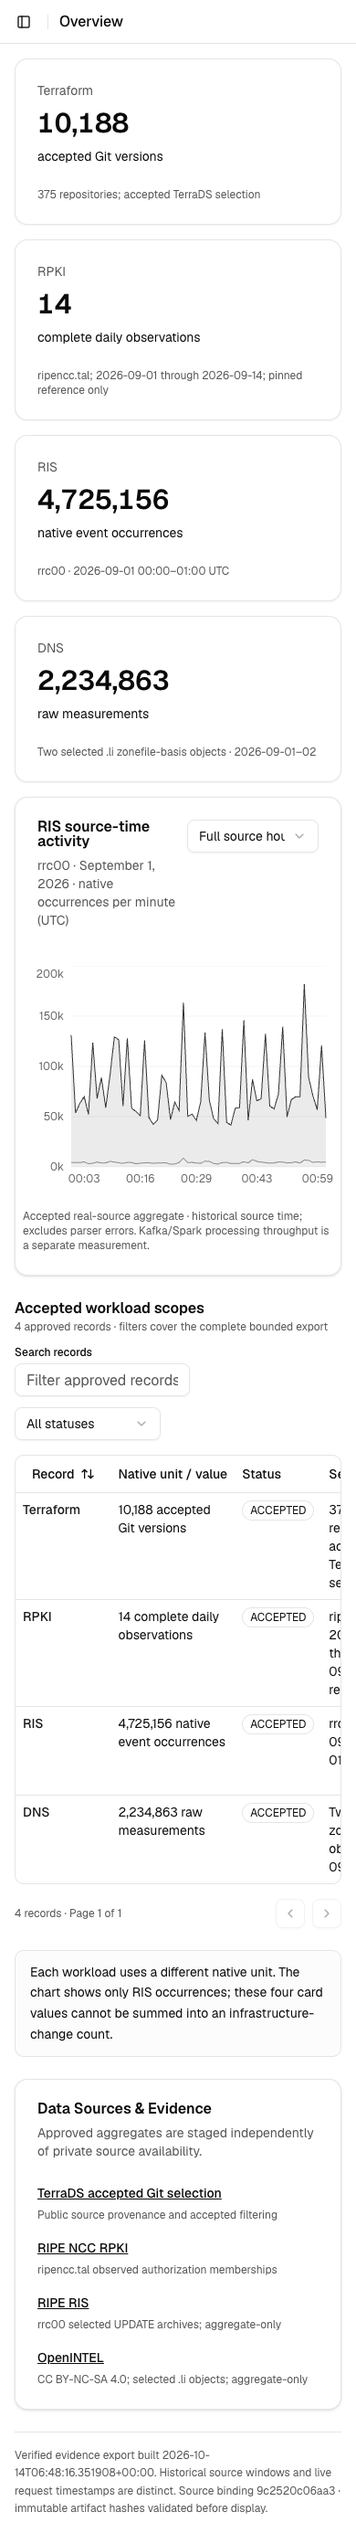
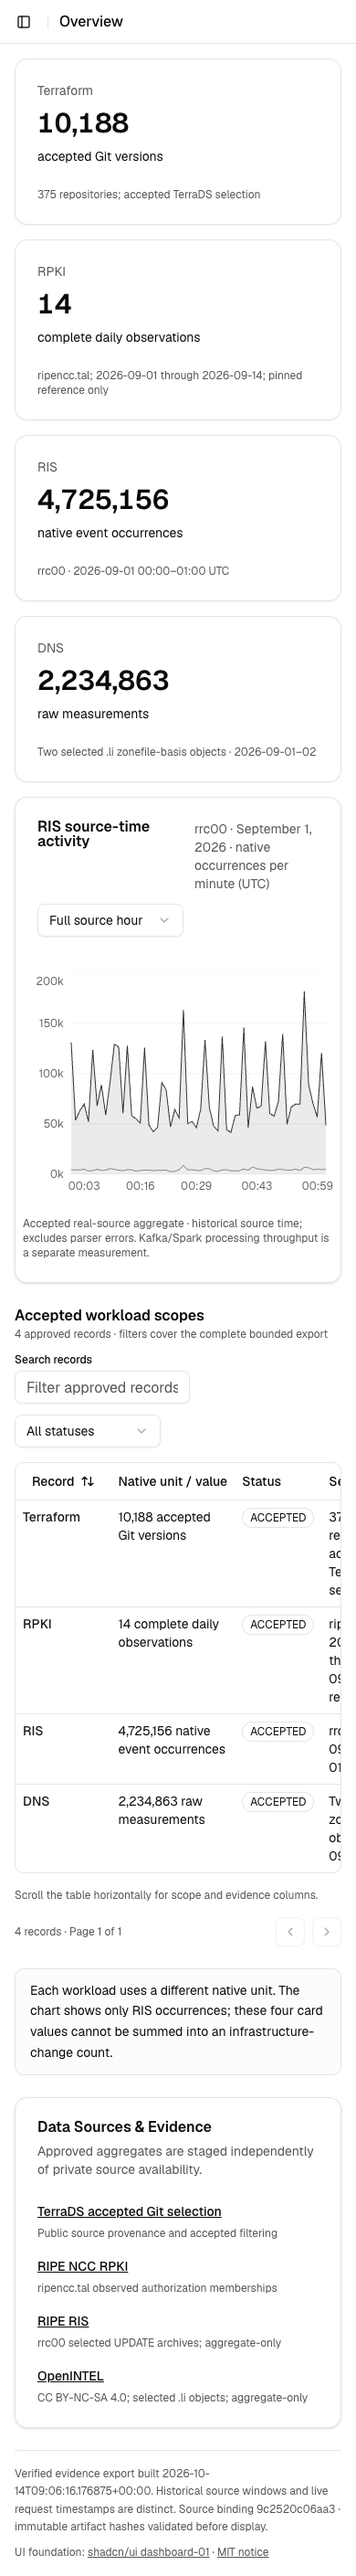
Refine mobile reference layout and verified Kubernetes demo interactions

diff --git a/frontend/components/dashboard/dashboard.tsx b/frontend/components/dashboard/dashboard.tsx
@@ -595,7 +595,7 @@ function Content({ screen, catalog }: { screen: Screen; catalog: Catalog }) {
                   String(item.mode),
                   String(item.mode),
                   bytes(Number(item.bytes)),
-                  "14 RPKI days · Snappy tuple projection",
+                  `14 RPKI days · all-in component median ${count(Number(item.all_in_bytes))} bytes`,
                   "EXACT RECONSTRUCTION",
                   String(item.artifact),
                   {
@@ -618,7 +618,7 @@ function Content({ screen, catalog }: { screen: Screen; catalog: Catalog }) {
                 row(
                   `${item.mode}-${item.query}`,
                   `${item.mode} · ${String(item.query).replaceAll("_", " ")}`,
-                  seconds(Number(item.median)),
+                  `${seconds(Number(item.median))} median · ${seconds(Number(item.minimum))}–${seconds(Number(item.maximum))} range`,
                   "Three build medians; warm cycles; OS cache uncontrolled",
                   String(item.status),
                   String(item.artifact),
@@ -782,7 +782,7 @@ function Content({ screen, catalog }: { screen: Screen; catalog: Catalog }) {
             <p>{ops.limits}</p>
             <p>{ops.measurement}</p>
             <p>
-              Dedicated VM: {ops.vm.cpus} CPUs / {ops.vm.memory_gib} GiB RAM /{" "}
+              Recorded VM: {ops.vm.cpus} CPUs / {ops.vm.memory_gib} GiB RAM /{" "}
               {ops.vm.disk_gib} GiB disk.
             </p>
             <p>

diff --git a/frontend/tests/dashboard.spec.ts b/frontend/tests/dashboard.spec.ts
@@ -269,3 +269,14 @@ test("navigation and console remain clean", async ({ page }) => {
   }
   expect(errors).toEqual([]);
 });
+
+test("health becomes stale at the declared freshness boundary", async ({
+  page,
+}) => {
+  await page.clock.install();
+  await page.goto("/operations/");
+  await page.getByRole("button", { name: "Check API now" }).click();
+  await expect(page.getByRole("status")).toContainText("LIVE READY");
+  await page.clock.fastForward(61000);
+  await expect(page.getByRole("status")).toContainText("STALE previous probe");
+});

diff --git a/frontend/components/dashboard/chart-area-interactive.tsx b/frontend/components/dashboard/chart-area-interactive.tsx
@@ -38,7 +38,7 @@ export function ChartAreaInteractive({
   const selected = minutes.slice(0, Number(range));
   return (
     <Card className="@container/card">
-      <CardHeader className="grid-cols-1 gap-3 sm:grid-cols-[1fr_auto]">
+      <CardHeader className="gap-3 has-data-[slot=card-action]:grid-cols-1 sm:has-data-[slot=card-action]:grid-cols-[1fr_auto]">
         <CardTitle>RIS source-time activity</CardTitle>
         <CardDescription>
           rrc00 · September 1, 2026 · native occurrences per minute (UTC)

diff --git a/frontend/components/dashboard/data-table.tsx b/frontend/components/dashboard/data-table.tsx
@@ -148,6 +148,12 @@ export function DataTable({
           <SelectTrigger
             aria-label={`Status filter for ${title}`}
             className="w-40"
+            disabled={statuses.length < 2}
+            title={
+              statuses.length < 2
+                ? "Only one recorded status is present in this export"
+                : undefined
+            }
           >
             <SelectValue />
           </SelectTrigger>

diff --git a/docs/phase20v-kubernetes-deployment.md b/docs/phase20v-kubernetes-deployment.md
@@ -5,7 +5,8 @@ additional Node runtime in the serving pod. Next16.4.0/React19.3.0/Tailwind4.3.3
 Recharts3.8.0, TanStack Table8.21.3 and other dependencies are exactly locked.
 Node24 and Nginx1.31.1 image indexes are pinned by digest in the Dockerfile.
 
-The dedicated VM remains3CPU/7GiB/48GiB. Frontend requests50mCPU/32MiB and limits
+The dedicated VM now uses3CPU/6GiB/48GiB after the recorded host-memory amendment.
+Frontend requests50mCPU/32MiB and limits
 500mCPU/128MiB. It runs UID101, restricted capabilities, read-only root filesystem,
 bounded writable `/tmp`, no SA token, Secrets or private source mount. Service
 `dashboard` is ClusterIP in `cs-app`. Existing Kafka/Spark/MinIO/ES are reused.
@@ -16,16 +17,19 @@ From a clean committed source and an idle resource-safe host:
 export PATH="$PWD/.tools/lima/bin:$PWD/.tools/k8s:$PATH"
 export LIMA_HOME="$HOME/.configstream-k8s-lima"
 export KUBECONFIG="$PWD/.cache/phase20-k8s/kubeconfig"
-.venv/bin/python infra/k8s/scripts/deploy_dashboard.py
+.venv/bin/python infra/k8s/scripts/deploy_dashboard.py --host-static-build
 kubectl rollout status deployment/dashboard -n cs-app --timeout=120s
 kubectl get pods -n cs-app
-kubectl port-forward -n cs-app svc/dashboard 13080:8080 --address127.0.0.1
+kubectl port-forward -n cs-app svc/dashboard 13080:8080 --address 127.0.0.1
 ```
 
-Use `--address 127.0.0.1` (space separated) with kubectl. The build script registers
+The build script registers
 an exclusive new receipt, source SHA and1800-second build cap; checks20GiB disk,
 512MiB available guest memory, host pressure and sustained new swap-out. It builds
-only the clean frontend source in the dedicated containerd worker, then patches
+the clean frontend source. The accepted path validates/builds static export on
+host Node26.5.0 and packages it in pinned ARM64 Nginx with a dedicated Dockerignore.
+The full Node24 container build is available in `frontend/Dockerfile`; its first
+attempt stopped on sustained host swap-out during image download. The script patches
 the rendered Deployment image to that exact SHA. A failed guard/build stops the
 attempt and retains diagnostics; it never deletes old data or evidence.
 

diff --git a/README.md b/README.md
@@ -20,7 +20,9 @@ retain distinct temporal roles. Phase 20K.1 has passed real single-node Kubernet
 application acceptance: Kafka → native Spark driver/executor → MinIO, batch
 readback, Elasticsearch/FastAPI and owned-fixture recovery. See
 [Kubernetes acceptance](docs/phase20-k8s-acceptance.md). This is not HA or full-data replay.
-No dashboard or Phase 21 implementation has begun.
+The [Phase 20V dashboard](docs/phase20v-acceptance.md) implements the actual
+shadcn/ui dashboard-01 reference and runs on K3s with verified aggregates and
+read-only configuration metadata. Phase 21 has not begun.
 
 ### Historical Phase 13 baseline
 
@@ -40,7 +42,7 @@ normalization/diff logic and YAML rules to publish deterministic Alerts to Kafka
 Pairing uses **asset_id + adjacent versions**, not previous-row arrival order.
 Optional **MinIO/Parquet history is authoritative**. Phase 8 adds Elasticsearch
 as a rebuildable metadata-only search projection. Phase 9 adds a thin read-only
-FastAPI metadata API. Dashboard remains planned; Kubernetes acceptance is described above. Invalid input
+FastAPI metadata API. The current research dashboard and Kubernetes acceptance are described above. Invalid input
 produces safe diagnostics, not a DLQ.
 
 Phase 10 adds [public baseline provenance](docs/datasets.md), controlled
@@ -609,5 +611,6 @@ and uncertain DNS measurements retain distinct semantics and accepted evidence.
 matched RPKI representations and27 three-repeat normalized-core engine trials
 passed; full production comparisons and paced RIS capacity remain unexecuted.
 Source ledgers stay private, public CI uses owned fixtures. Kubernetes20K.1 is a
-separate accepted single-node owned-fixture deployment; dashboard remains unimplemented.
+separate accepted single-node owned-fixture deployment. The Phase20V dashboard
+preserves accepted source scopes, units and uncertainty in a read-only presentation.
 Do not begin Phase21 automatically.

diff --git a/docs/kubernetes-demo.md b/docs/kubernetes-demo.md
@@ -22,7 +22,14 @@ Four owned roles: eight Terraform Git versions (not deployments), seven RPKI row
 two complete states, four RIS occurrences/two fingerprints/one exclusion, six DNS
 measurements/two groups/entity coverage unknown. No unified config-change claim.
 
-## Open visualization/course gate
+## Subsequent Phase20V visualization
+
+The reference dashboard is now deployed in `cs-app`; its separate acceptance,
+approved data scopes and seven-step demonstration are in
+[Phase20V](phase20v-acceptance.md) and [demo script](phase20v-demo-script.md).
+The paragraphs below retain the original20K.1 visualization boundary at delivery.
+
+## Original20K.1 visualization/course gate
 
 No dashboard/frontend is implemented. Swagger is not end-to-end visualization.
 The future independently deployed read-only UI must expose scope, provenance,

diff --git a/docs/kubernetes-deployment.md b/docs/kubernetes-deployment.md
@@ -1,5 +1,9 @@
 # Reproducible Kubernetes deployment
 
+The subsequent [Phase20V frontend runbook](phase20v-kubernetes-deployment.md)
+adds the read-only dashboard to the existing cluster. Its measured dashboard
+profile is3CPU/6GiB/48GiB; the7GiB figures below bind the earlier20K.1 campaign.
+
 ## Policy and versions
 
 The initial platform campaign failed its old growth guard. Its receipts are
